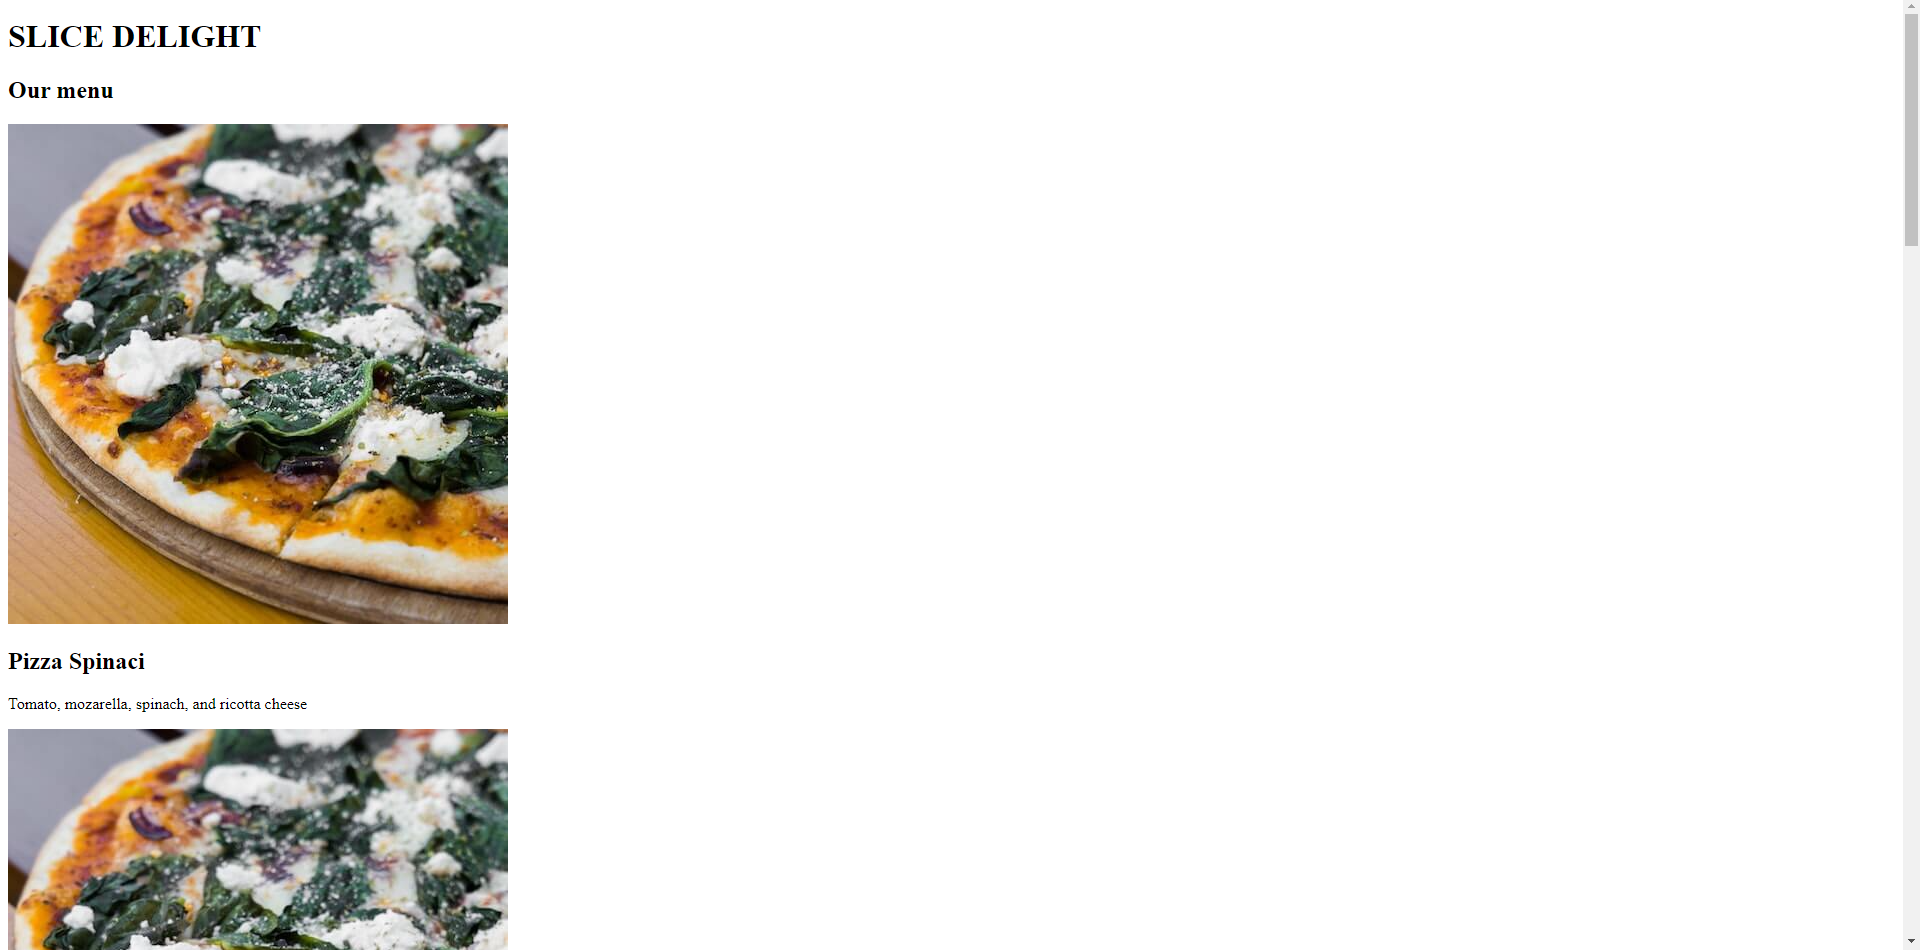
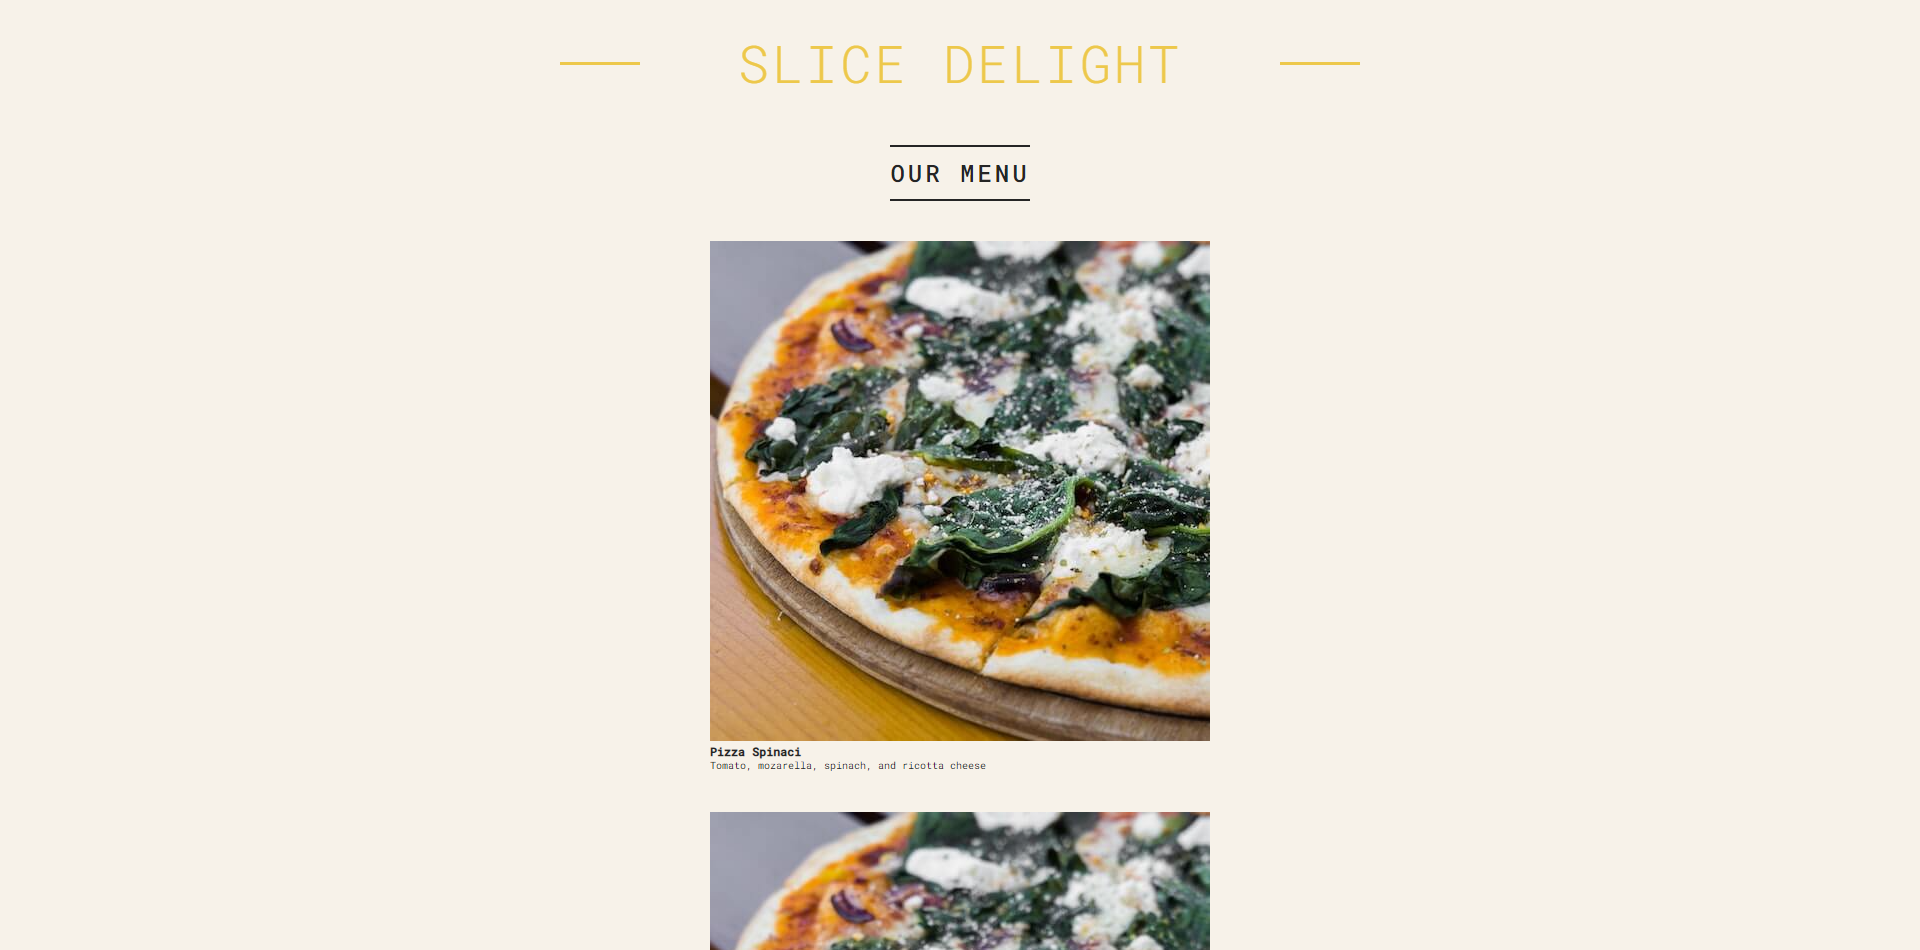
SLICE DELIGHT 0.7.0
Update index.js
Update index.css

diff --git a/src/index.js b/src/index.js
@@ -1,5 +1,6 @@
 import React from "react";
 import ReactDom from "react-dom/client";
+import "./index.css";
 
 // TODO: Solve Warning
 // eslint-disable-next-line no-unused-vars
@@ -51,7 +52,7 @@ const pizzaData = [
 
 function App() {
     return (
-        <div>
+        <div className="container">
             <Header />
             <Menu />
             <Footer />
@@ -61,13 +62,15 @@ function App() {
 
 function Header() {
     return (
-        <h1>SLICE DELIGHT</h1>
+        <header className="header">
+            <h1>SLICE DELIGHT</h1>
+        </header>
     )
 }
 
 function Menu() {
     return (
-        <div>
+        <main className="menu">
             <h2>Our menu</h2>
             <Pizza />
             <Pizza />
@@ -75,6 +78,16 @@ function Menu() {
             <Pizza />
             <Pizza />
             <Pizza />
+        </main>
+    )
+}
+
+function Pizza() {
+    return (
+        <div>
+            <img src="pizzas/spinaci.jpg" alt="Pizza Spinaci"></img>
+            <h3>Pizza Spinaci</h3>
+            <p>Tomato, mozarella, spinach, and ricotta cheese</p>
         </div>
     )
 }
@@ -87,17 +100,7 @@ function Footer() {
     const version = require('../package.json').version;
 
     return (
-        <footer>{hour} H. We're currently {isOpen ? "open" : "closed"}. Slice Delight v{version}</footer>
-    )
-}
-
-function Pizza() {
-    return (
-        <div>
-            <img src="pizzas/spinaci.jpg" alt="Pizza Spinaci"></img>
-            <h2>Pizza Spinaci</h2>
-            <p>Tomato, mozarella, spinach, and ricotta cheese</p>
-        </div>
+        <footer className="footer">{hour} H. We're currently {isOpen ? "open" : "closed"}. Slice Delight v{version}</footer>
     )
 }
 

diff --git a/src/index.css b/src/index.css
@@ -1,4 +1,4 @@
-@import url('https://fonts.googleapis.com/css2?family=Roboto+Mono:ital,wght@0,300;0,400;0,500;1,300&display=swap');
+@import url("https://fonts.googleapis.com/css2?family=Roboto+Mono:ital,wght@0,300;0,400;0,500;1,300&display=swap");
 
 * {
   margin: 0;
@@ -8,10 +8,16 @@
 
 html {
   font-size: 62.5%;
+  -ms-overflow-style: none;
+  scrollbar-width: none;
+}
+
+html::-webkit-scrollbar {
+  display: none;
 }
 
 body {
-  font-family: 'Roboto Mono', sans-serif;
+  font-family: "Roboto Mono", sans-serif;
   color: #252525;
   font-weight: 400;
   background-color: #f7f2e9;
@@ -55,9 +61,9 @@ body {
 .header h1::before,
 .header h1::after {
   display: block;
-  content: '';
+  content: "";
   height: 3px;
-  width: 12rem;
+  width: 8rem;
   background-color: #edc84b;
   position: absolute;
   top: calc(50% - 1px);

diff --git a/README.md b/README.md
@@ -16,7 +16,7 @@
 
 - **STACK :**
 
-  - **Slice Delight** : `0.6.0`
+  - **Slice Delight** : `0.7.0`
   - **React** : `18.3.1`
   - **React Dom** : `18.3.1`
 
